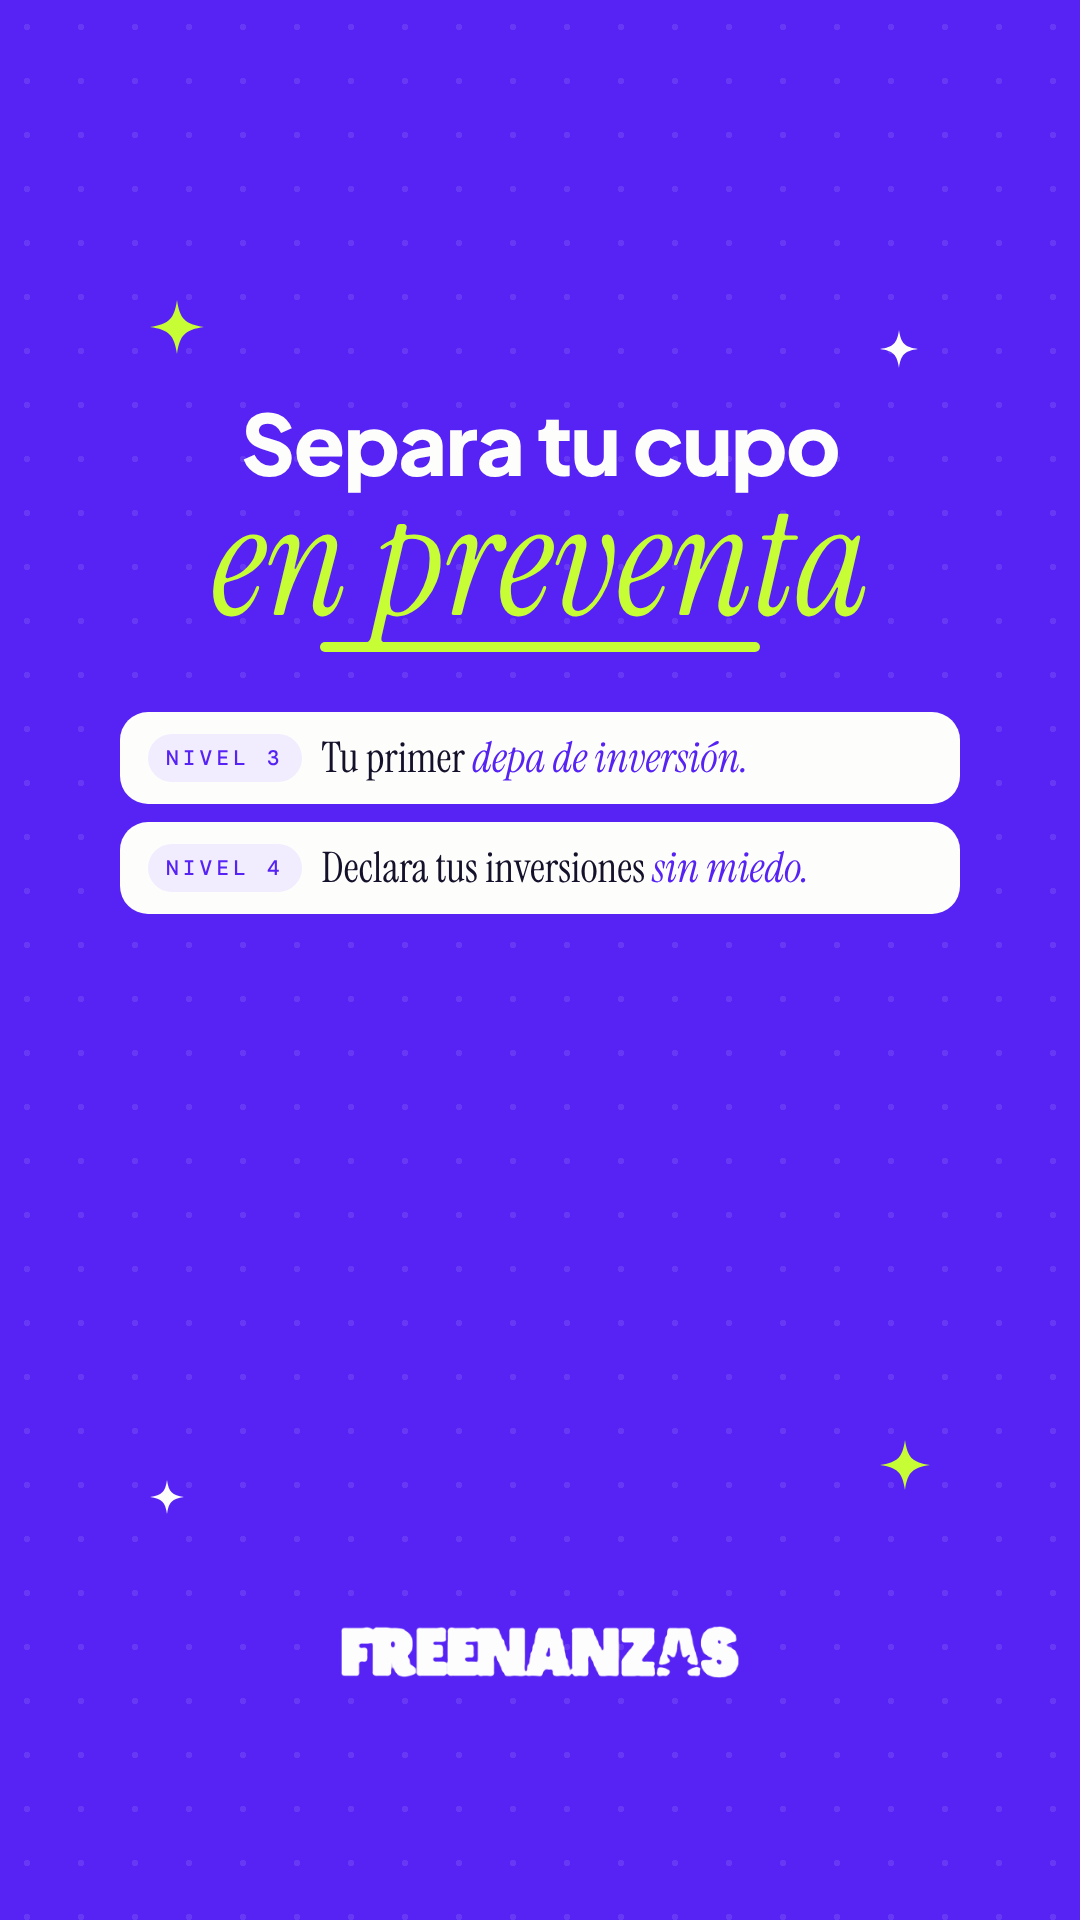
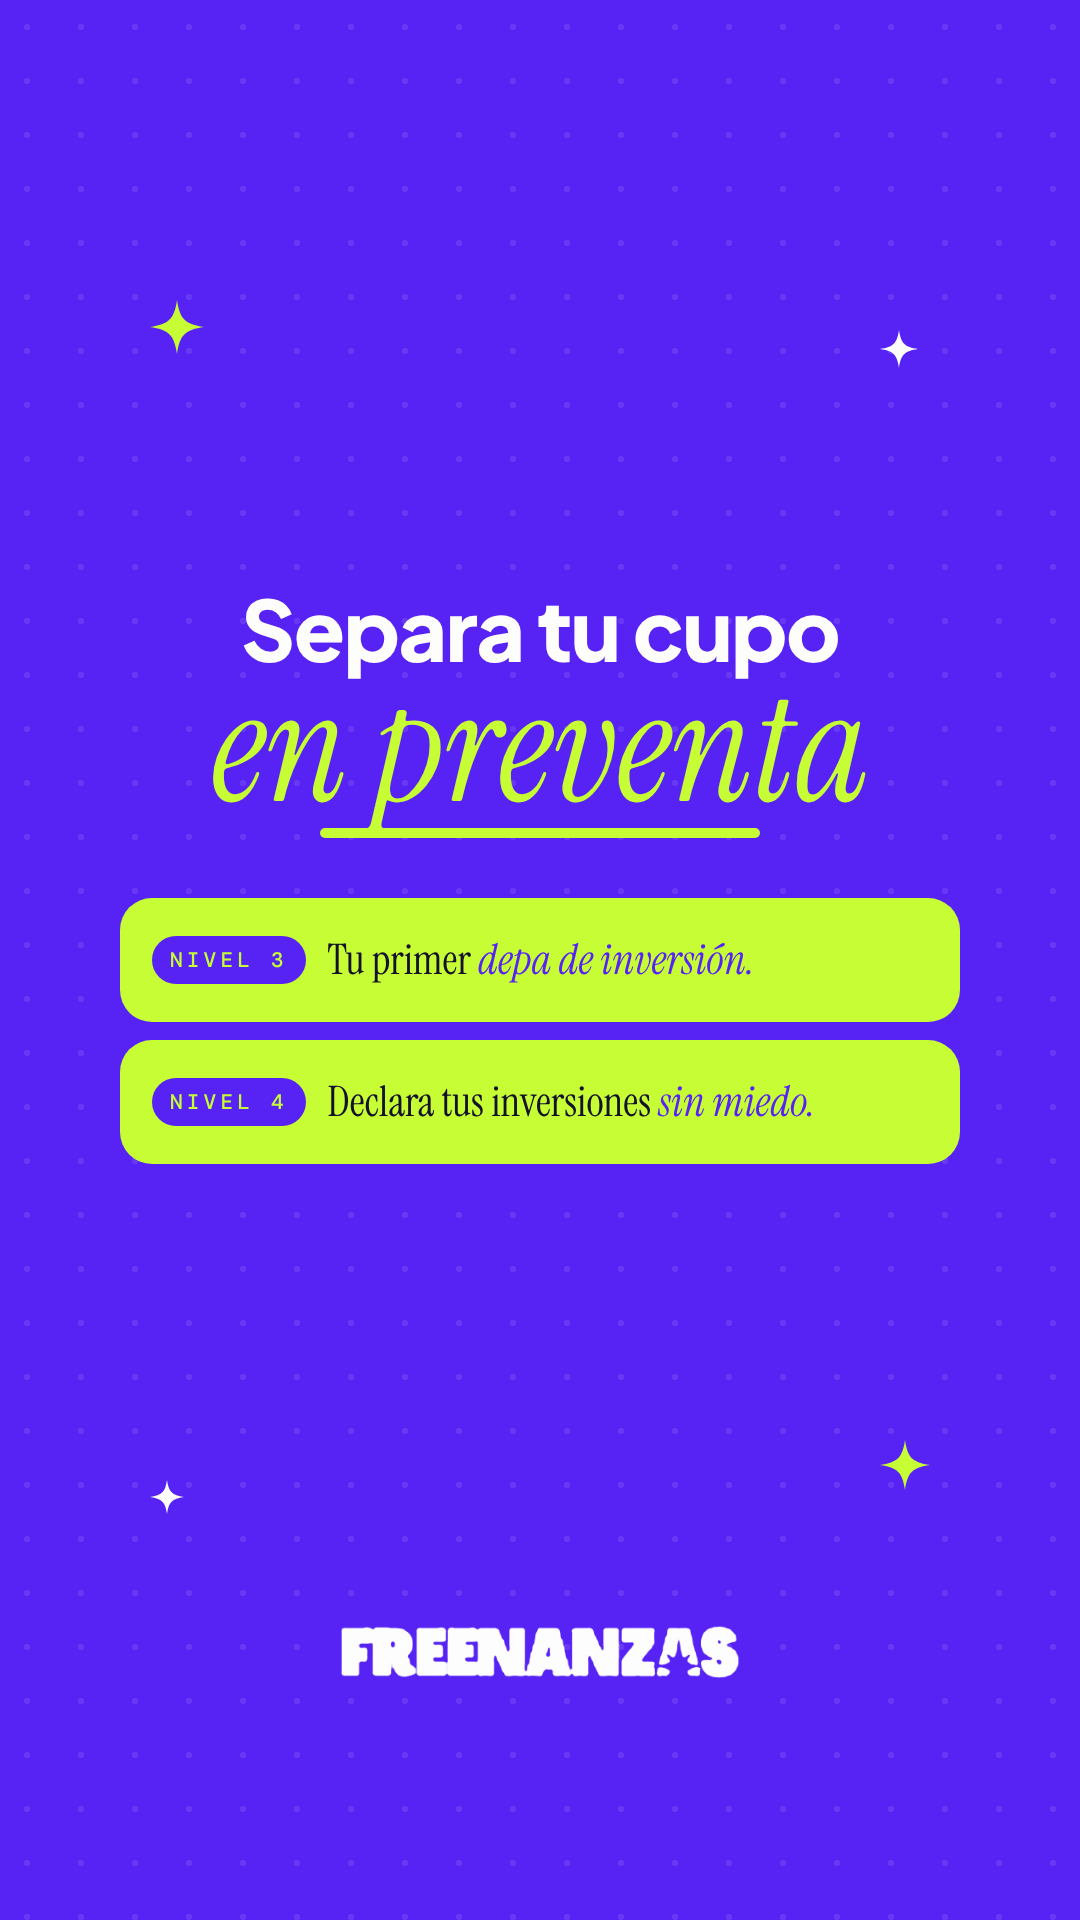
Imagen CTA preventa: bloque centrado, tarjetas lima más altas, hueco reservado para el sticker de link
Claude-Session: https://claude.ai/code/session_018mUJEPS133CuMZ8Auy7KzF

Changed region(s): [[0.0917, 0.2188, 0.8861, 0.625]]

diff --git a/cta-preventa.html b/cta-preventa.html
@@ -19,15 +19,17 @@
   .grid { position: absolute; inset: 0; background-image: radial-gradient(rgba(253,253,252,.10) 3px, transparent 3.5px); background-size: 54px 54px; }
   .spark { position: absolute; }
   /* Márgenes de seguridad: todo el contenido dentro de x 120–960 px y por encima del logo */
-  .col { position: absolute; left: 120px; right: 120px; top: 400px; display: flex; flex-direction: column; align-items: center; text-align: center; }
+  .col { position: absolute; left: 120px; right: 120px; top: 0; bottom: 0; display: flex; flex-direction: column; align-items: center; justify-content: center; text-align: center; }
   h1 { font-weight: 800; font-size: 84px; line-height: 1; letter-spacing: -0.02em; }
   h2 { font-family: var(--serif); font-style: italic; font-weight: 400; font-size: 156px; line-height: .95; color: var(--lima); margin-top: 4px; }
   .uline { width: 440px; height: 10px; border-radius: 5px; background: var(--lima); margin-top: 6px; }
   .courses { display: flex; flex-direction: column; gap: 18px; margin-top: 60px; width: 100%; }
-  .course { display: flex; align-items: center; gap: 20px; background: var(--blanco); color: var(--tinta); border-radius: 28px; padding: 22px 28px; text-align: left; }
-  .lvl { flex: none; font-family: var(--mono); font-size: 21px; letter-spacing: .2em; color: var(--morado); background: #f1edfe; border-radius: 40px; padding: 10px 18px; text-transform: uppercase; }
+  .course { display: flex; align-items: center; gap: 22px; background: var(--lima); color: var(--tinta); border-radius: 32px; padding: 38px 32px; text-align: left; }
+  .lvl { flex: none; font-family: var(--mono); font-size: 21px; letter-spacing: .2em; color: var(--lima); background: var(--morado); border-radius: 40px; padding: 10px 18px; text-transform: uppercase; }
   .name { font-family: var(--serif); font-size: 42px; line-height: 1; white-space: nowrap; }
   .name i { color: var(--morado); }
+  /* Hueco reservado para el sticker de link (no se dibuja nada) */
+  .sticker-space { height: 130px; margin-top: 40px; width: 100%; }
   #logo { position: absolute; left: 50%; top: 1625px; width: 400px; margin-left: -200px; }
 </style>
 </head>
@@ -49,7 +51,7 @@
       <div class="course"><span class="lvl">Nivel 4</span><span class="name">Declara tus inversiones <i>sin miedo.</i></span></div>
     </div>
 
-    <!-- Debajo queda espacio libre para el sticker de link -->
+    <div class="sticker-space"></div>
   </div>
 
   <img id="logo" src="assets/logo-freenanzas-blanco.png" alt="Freenanzas">

diff --git a/ESCALETA-PREVENTAS.md b/ESCALETA-PREVENTAS.md
@@ -92,8 +92,8 @@ La tarjeta se construye por capas, en el mismo orden en que se lee:
 | salida | N3: sale a X −1250 con rotación −8° (In Expo). N4: se queda fija hasta el final del video | |
 
 ### Imagen CTA: "Separa tu cupo en preventa" (estática)
-Historia 9:16 sobre morado con trama de puntos. Lleva "Separa tu cupo" (sans 84 px) y "*en preventa*" (serif cursiva lima 156 px) con subrayado lima. Debajo van dos tarjetas blancas: "NIVEL 3 · Tu primer *depa de inversión.*" y "NIVEL 4 · Declara tus inversiones *sin miedo.*".
-- **Márgenes:** el contenido queda dentro de x 120–960 px y empieza en y = 400 px, sin tocar los bordes ni la zona de la interfaz.
+Historia 9:16 sobre morado con trama de puntos, con todo el bloque centrado verticalmente (el logo se mantiene abajo). Lleva "Separa tu cupo" (sans 84 px) y "*en preventa*" (serif cursiva lima 156 px) con subrayado lima. Debajo van dos tarjetas lima más altas, con la etiqueta "NIVEL" en morado: "Tu primer *depa de inversión.*" y "Declara tus inversiones *sin miedo.*". Bajo las tarjetas queda un hueco reservado de 130 px para el sticker de link.
+- **Márgenes:** el contenido queda dentro de x 120–960 px.
 - El espacio entre las tarjetas y el logo queda libre para poner el sticker de link.
 - El logo blanco va en la misma posición que en el video: 400 px de ancho, centrado, y = 1625 px.
 
